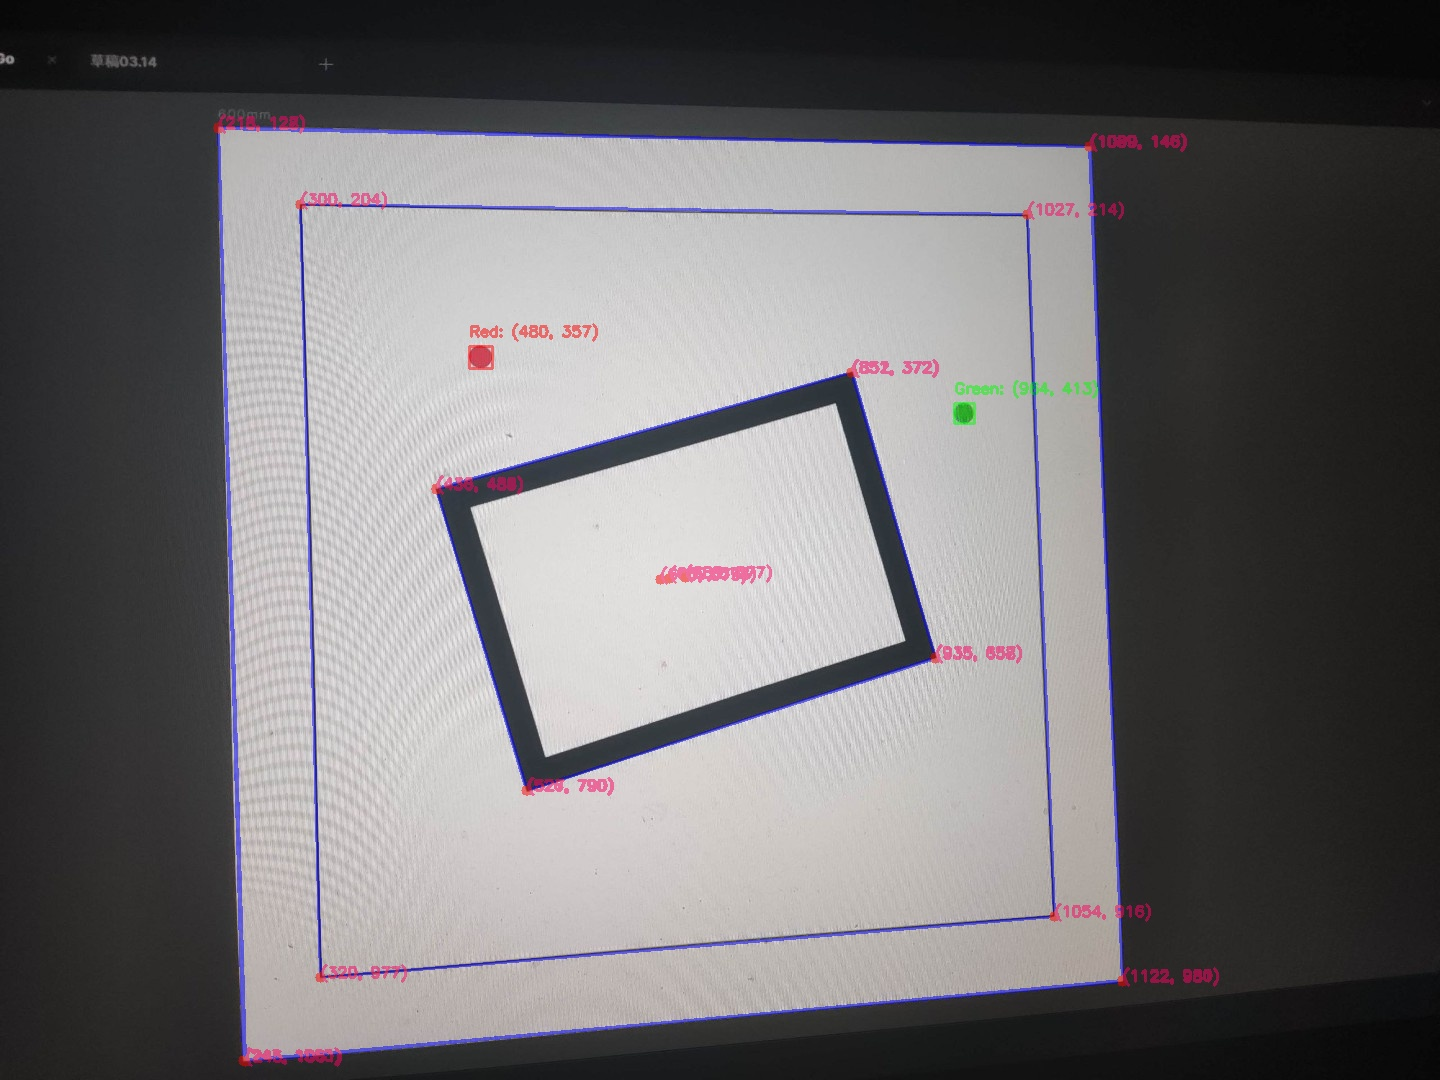
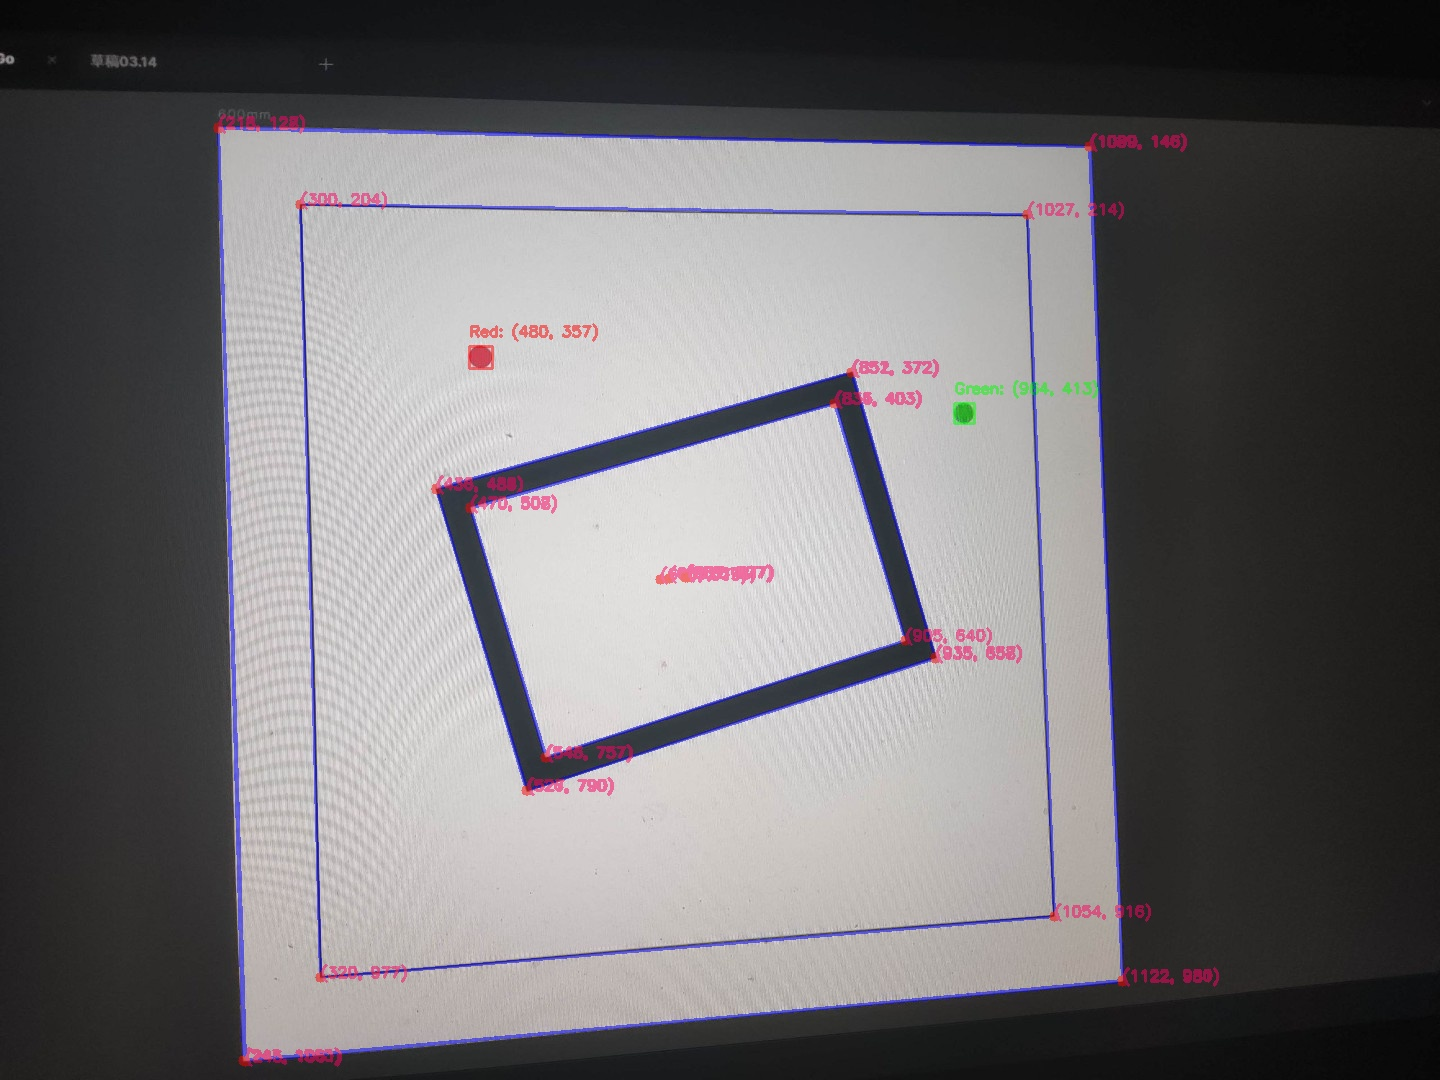
更新

diff --git a/week_9/code/Final_Code/first/code/(初期成品)Corner_Red_Green.py b/week_9/code/Final_Code/first/code/(初期成品)Corner_Red_Green.py
@@ -50,17 +50,16 @@ def preprocess_image(image_path):
     image = cv2.imread(image_path)
 
     # 图像增强和对比度增强
-    alpha = 1.5  # 对比度增强参数
-    beta = 15  # 亮度增强参数
-    enhanced_image = cv2.convertScaleAbs(image, alpha=alpha, beta=beta)
-
+    Enhanced_image = cv2.convertScaleAbs(image, alpha=1.5, beta=15)
     # 去噪
-    denoised_image = cv2.fastNlMeansDenoisingColored(enhanced_image, None, 10, 10, 7, 21)
-
+    Denoised_image = cv2.fastNlMeansDenoisingColored(Enhanced_image, None, 10, 10, 7, 21)
     # 高斯平滑
-    blurred_image = cv2.GaussianBlur(denoised_image, (5, 5), 0)
-
-    return blurred_image
+    Blurred_image = cv2.GaussianBlur(Denoised_image, (5, 5), 0)
+    
+    # # Canny边缘检测
+    # Canny_image = cv2.Canny(Blurred_image, 50, 150)
+    
+    return Blurred_image
 
 #描绘四边矩形
 def detect_quadrilaterals(image):
@@ -113,10 +112,10 @@ def detect_quadrilaterals(image):
 
 # 主函数
 if __name__ == "__main__":
-    image_path = 'week_9/src_1/img_3.jpeg'
-    Upload_Str1 = 'week_9/Code/Final_Code/first/Output_1/out_3/1_EdgeDetection_Image.jpeg'
-    Upload_Str2 = 'week_9/Code/Final_Code/first/Output_1/out_3/2_RedGreen_Image.jpeg'
-    Upload_Str3 = 'week_9/Code/Final_Code/first/Output_1/out_3/3_Final_Image.jpeg'
+    image_path = 'week_9/src_1/img_1.jpeg'
+    Upload_Str1 = 'week_9/Code/Final_Code/first/Output_1/out_1/1_EdgeDetection_Image.jpeg'
+    Upload_Str2 = 'week_9/Code/Final_Code/first/Output_1/out_1/2_RedGreen_Image.jpeg'
+    Upload_Str3 = 'week_9/Code/Final_Code/first/Output_1/out_1/3_Final_Image.jpeg'
 
     # 图像预处理
     processed_image = preprocess_image(image_path)
@@ -124,11 +123,14 @@ if __name__ == "__main__":
     # 检测四边形并标记特征
     annotated_image = detect_quadrilaterals(processed_image)
 
+    # # 复制3通道图像
+    # Copy_image = annotated_image.reshape(600, 800, 1).repeat(3, axis=2)
+    
     # 检测红色和绿色区域并标记
     red_green_image = detect_red_and_green(image_path)
     
     # 将角点和红绿点标记同时显示在图像上
-    Final_image = cv2.addWeighted(annotated_image,0.5,red_green_image,0.5,0)
+    Final_image = cv2.addWeighted(annotated_image, 0.5, red_green_image, 0.5, 0)
 
     # 保存图像
     cv2.imwrite(Upload_Str1, annotated_image)
@@ -136,6 +138,6 @@ if __name__ == "__main__":
     cv2.imwrite(Upload_Str3, Final_image)
     
     # 显示结果
-    cv2.imshow('Final Image',Final_image)
+    cv2.imshow('Final_image',Final_image)
     cv2.waitKey(0)
     cv2.destroyAllWindows()

diff --git a/week_9/code/Final_Code/second/code/Edge_Detection.py b/week_9/code/Final_Code/second/code/Edge_Detection.py
@@ -6,15 +6,13 @@ def preprocess_image(image_path):
     image = cv2.imread(image_path)
 
     # 去噪
-    denoised_image = cv2.fastNlMeansDenoisingColored(image, None, 10, 10, 7, 21)
+    Denoised_image = cv2.fastNlMeansDenoisingColored(image, None, 10, 10, 7, 21)
   
     # 图像增强和对比度增强
-    alpha = 1.5  # 对比度增强参数
-    beta = 15  # 亮度增强参数
-    enhanced_image = cv2.convertScaleAbs(denoised_image, alpha=alpha, beta=beta)
+    Enhanced_image = cv2.convertScaleAbs(Denoised_image, alpha=1, beta=30)
     
     # 边缘检测
-    canny_image = cv2.Canny(enhanced_image, 50, 150)
+    canny_image = cv2.Canny(Enhanced_image, 50, 150)
     
     return canny_image
 
@@ -28,7 +26,7 @@ def detect_quadrilaterals(image):
         # 计算轮廓面积
         area = cv2.contourArea(contour)
         # 去除干扰部分的区域
-        min_area = 26500
+        min_area = 50000
         max_area = 8000000000000
         if min_area < area < max_area:
             # 对轮廓进行逼近
@@ -66,7 +64,7 @@ def draw_points(image, quadrilaterals):
 
 # 主函数
 if __name__ == "__main__":
-    image = 'week_9\src_1\img_3.png'
+    image = 'week_9\src_2\img_4.jpeg'
 
     # 图像预处理
     processed_image = preprocess_image(image)

diff --git a/week_9/坑路心得/坑路.md b/week_9/坑路心得/坑路.md
@@ -9,9 +9,11 @@ Traceback (most recent call last):
     image = cv2.imread(image_path)
             ^^^^^^^^^^^^^^^^^^^^^^
 TypeError: Can't convert object to 'str' for 'filename
-3.
-    Final_image = cv2.addWeighted(annotated_image,0.5,red_green_image,0.5,0)
+3. Final_image = cv2.addWeighted(annotated_image,0.5,red_green_image,0.5,0)
                   ^^^^^^^^^^^^^^^^^^^^^^^^^^^^^^^^^^^^^^^^^^^^^^^^^^^^^^^^^^
 cv2.error: OpenCV(4.8.1) D:\a\opencv-python\opencv-python\opencv\modules\core\src\arithm.cpp:650: error: (-209:Sizes of input arguments do not match) The operation is neither 'array op array' (where arrays have the same size and the same number of channels), nor 'array op scalar', nor 'scalar op array' in function 'cv::arithm_op'
 
 - 原因：annotated_image和red_green_image的尺寸或通道数不匹配
+# 心得
+## 难绷，每次运行都要祈祷不要报什么奇奇怪怪的错误，报错之后网上也很难答案，最后还是要靠ai解答疑惑。<p>所以最快速的解决方法是将报错复制到ai，让ai解答；之后才考虑互联网！！！
+## AI：文心一言，devv

diff --git a/week_9/code/Final_Code/second/Output_2/关于out_3.md b/week_9/code/Final_Code/second/Output_2/关于out_3.md
@@ -1,1 +1,1 @@
-img_3识别不出，怀疑是图片显示或图片格式的问题，按理说是图片3识别应该没问题才对
+# img_3识别不出，怀疑是图片显示或图片格式的问题，按理说是图片3识别应该没问题才对
